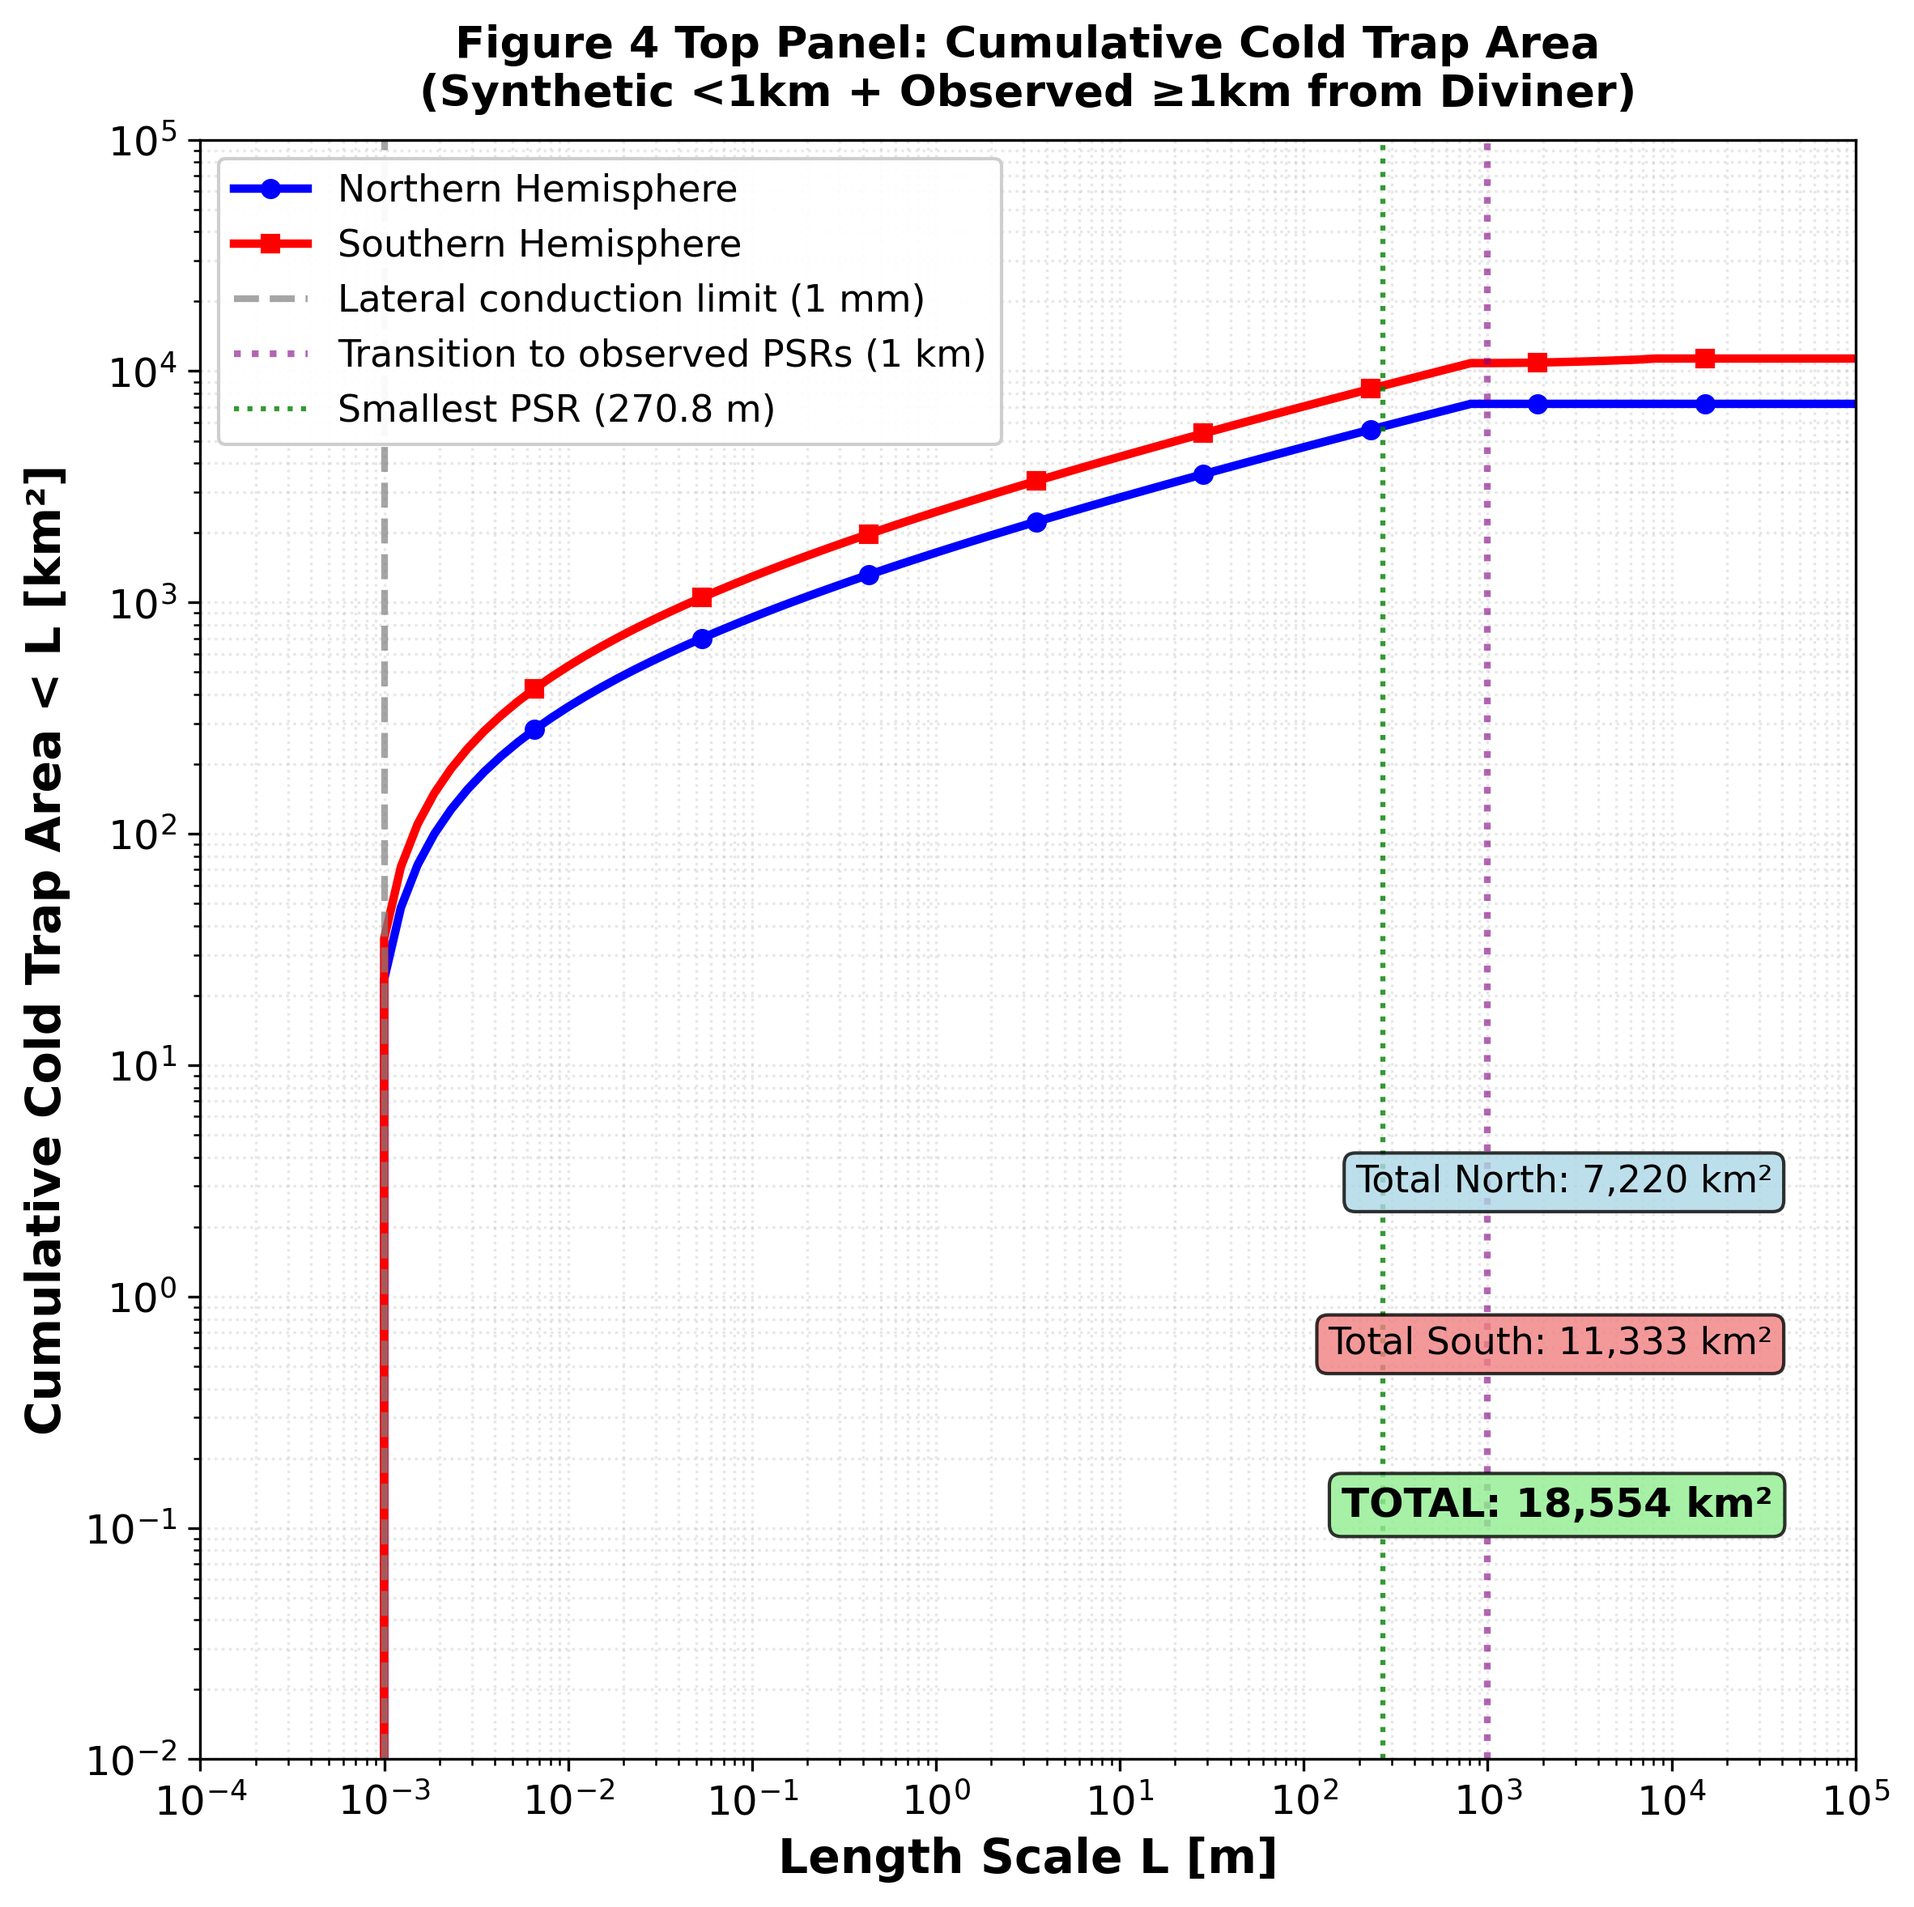
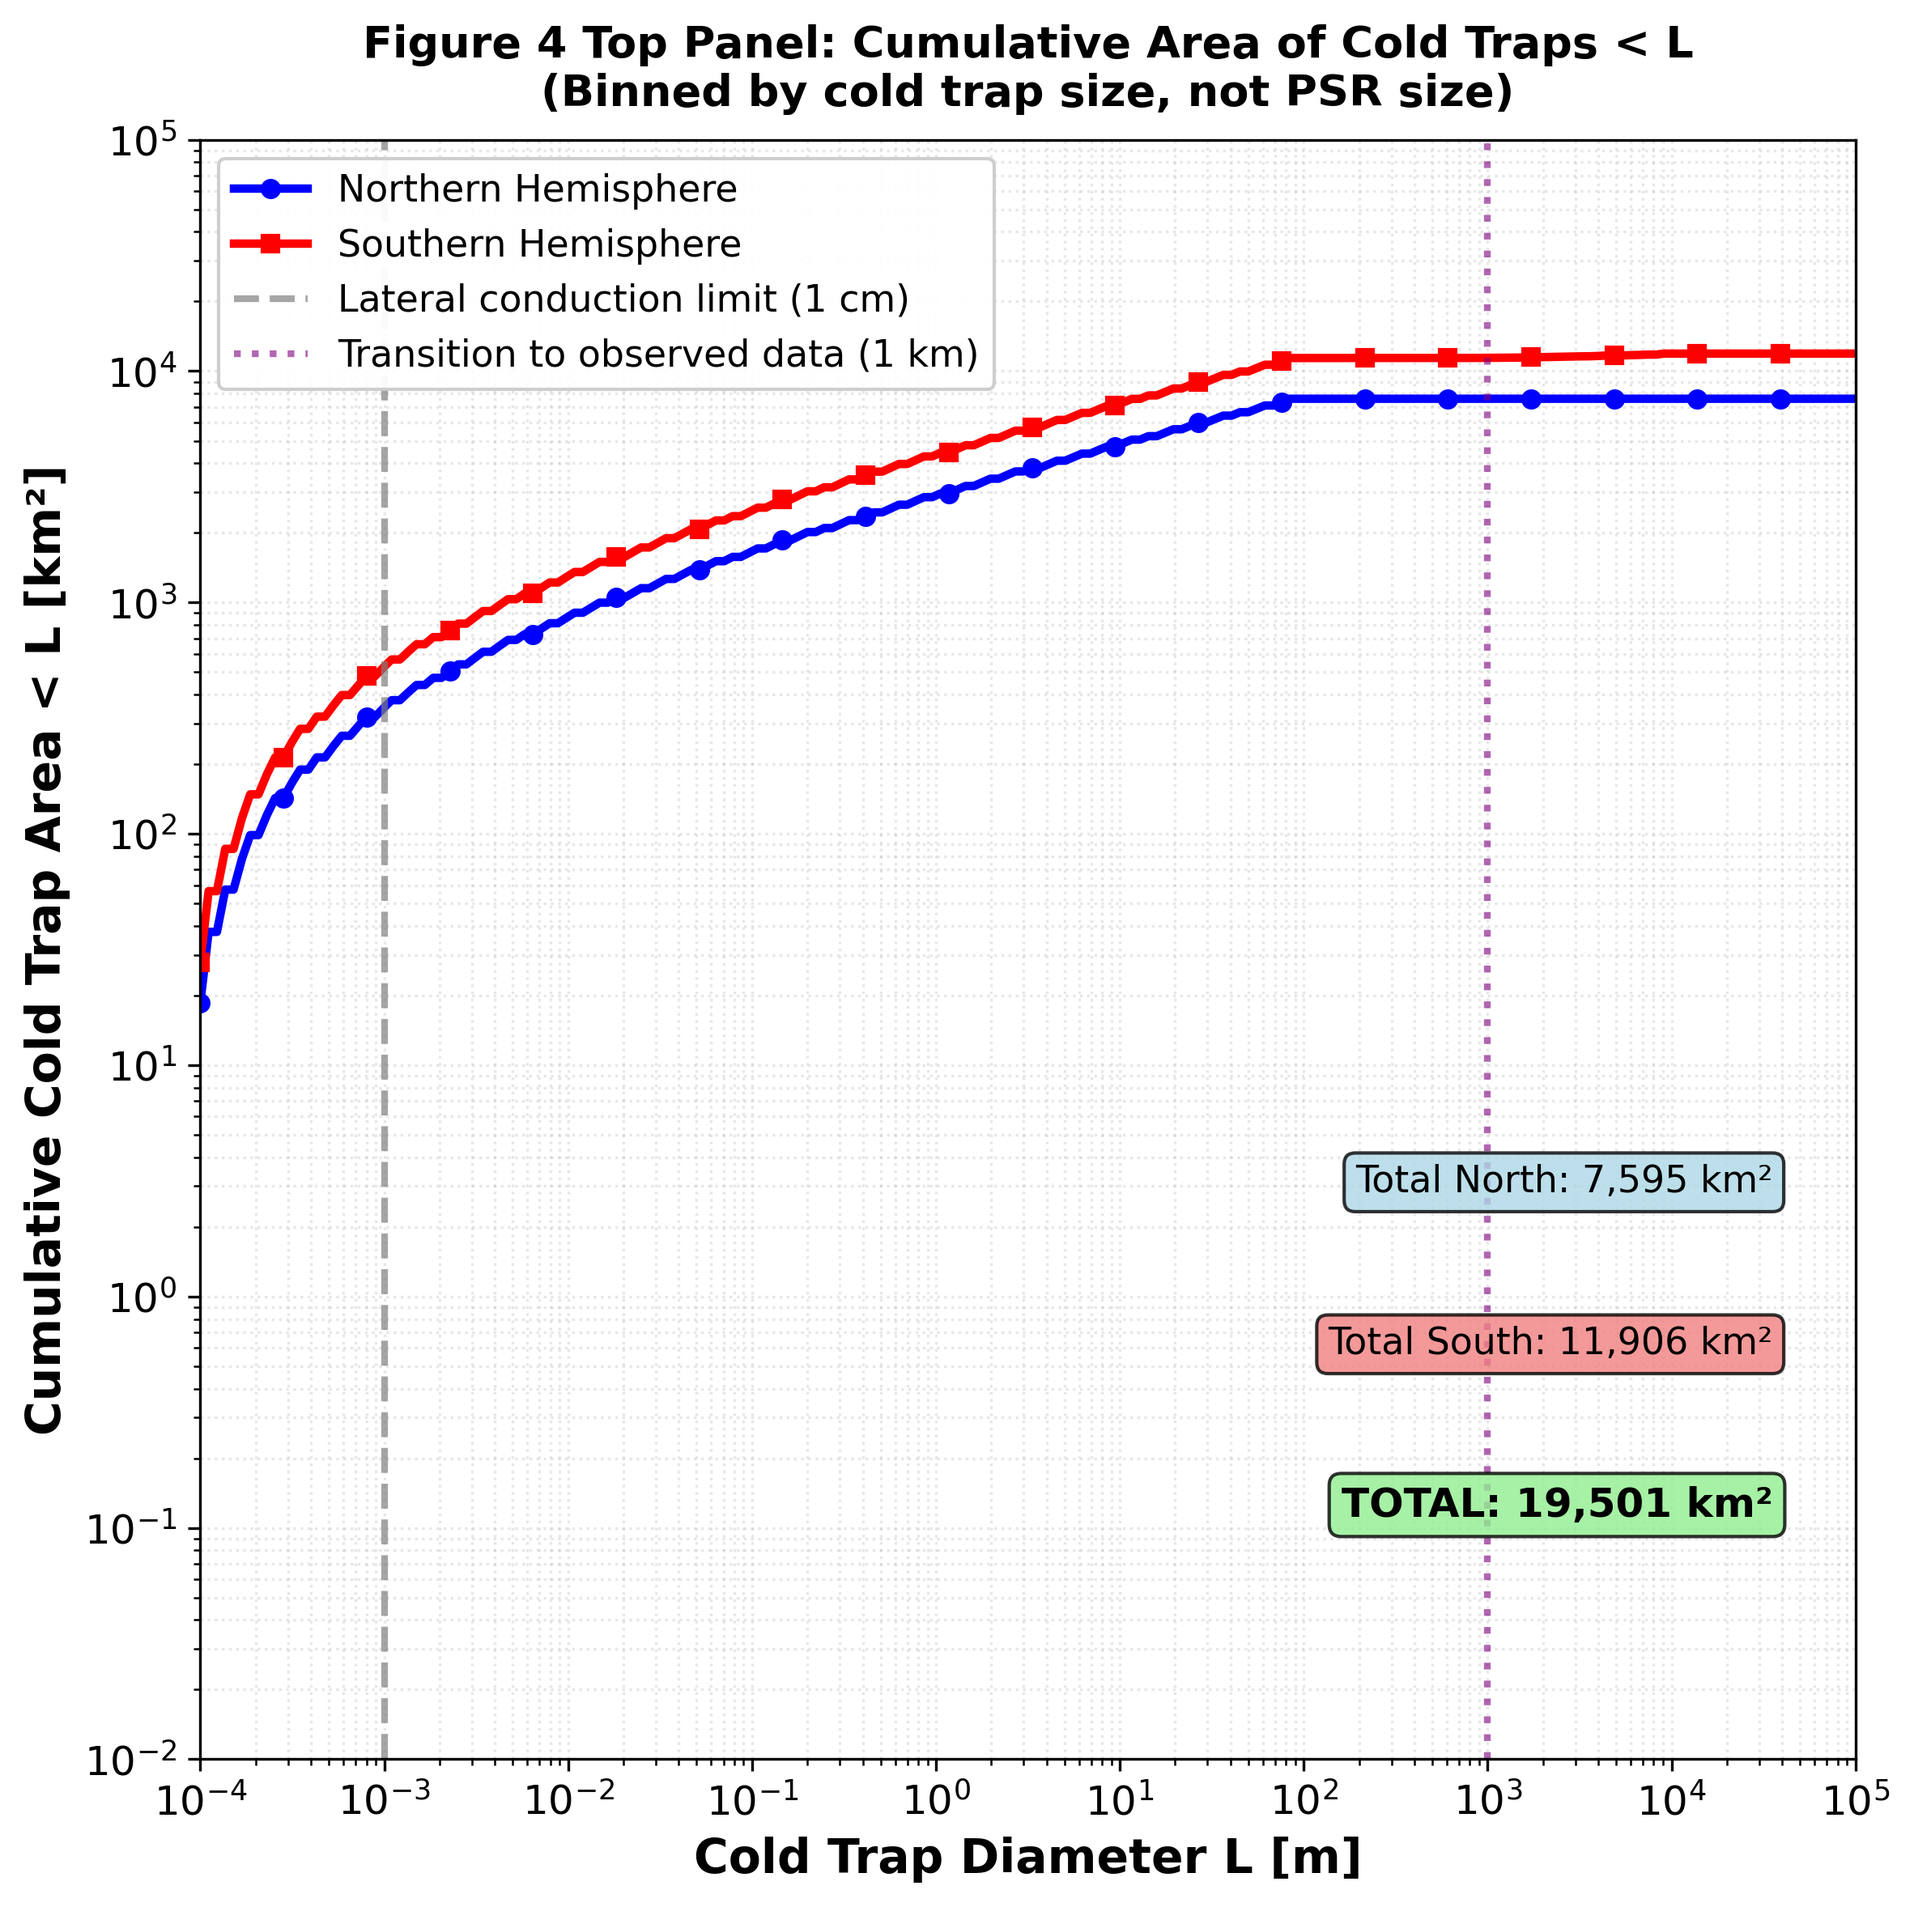
Add bottom panel to Figure 4: number of PSRs and cold traps vs length scale
- Added calculate_psr_counts() to compute PSR size distribution (N ∝ L^-2.8)
- Added calculate_coldtrap_counts() to bin cold traps by diameter
- Created plot_figure4_complete() to generate both top and bottom panels
- Bottom panel shows total number of PSRs and cold traps at each length scale L
- Both curves follow logarithmic spacing as specified in caption
- Updated main() to generate both individual and combined figures

The bottom panel displays:
- PSRs (black line): Total number following power-law N ∝ L^-2.8
- Cold traps (green line): Number constrained by lateral conduction limit (1 mm)
- Shows ~2×10^18 total PSRs and ~2×10^16 total cold traps across all scales

diff --git a/remake_figure4_by_coldtrap_size.py b/remake_figure4_by_coldtrap_size.py
@@ -229,6 +229,87 @@ def calculate_cumulative_by_size(coldtraps, L_values):
     return cum_area_north, cum_area_south
 
 
+def calculate_psr_counts(L_min=1e-4, L_max=100000, n_bins=100):
+    """
+    Calculate number of PSRs at each length scale.
+
+    Returns:
+        L_values: Array of length scales [m]
+        N_psr_north: Number of PSRs in northern hemisphere
+        N_psr_south: Number of PSRs in southern hemisphere
+    """
+    print("\n[Calculating PSR counts]")
+
+    # Create logarithmic bins for PSR diameters
+    L_bins = np.logspace(np.log10(L_min), np.log10(L_max), n_bins)
+    dL = np.diff(np.logspace(np.log10(L_min), np.log10(L_max), n_bins + 1))
+
+    # Power-law exponent
+    b = 1.8
+
+    # Scale factor
+    K = 2e11
+
+    # Differential number density
+    N_diff = K * L_bins**(-b - 1)
+    N_per_bin = N_diff * dL
+
+    # Hemisphere asymmetry
+    N_psr_north = N_per_bin * 0.40
+    N_psr_south = N_per_bin * 0.60
+
+    print(f"  Total PSRs (North): {N_psr_north.sum():.2e}")
+    print(f"  Total PSRs (South): {N_psr_south.sum():.2e}")
+
+    return L_bins, N_psr_north, N_psr_south
+
+
+def calculate_coldtrap_counts(coldtraps, L_values):
+    """
+    Calculate number of cold traps at each length scale.
+
+    Args:
+        coldtraps: List of dicts with 'diameter_m', 'area_km2', 'hemisphere', 'count'
+        L_values: Array of diameter values [m]
+
+    Returns:
+        N_ct_north, N_ct_south: Number of cold traps at each L
+    """
+    print("\n[Calculating cold trap counts by size]")
+
+    # Create bin edges (geometric mean between adjacent bins)
+    L_edges = np.zeros(len(L_values) + 1)
+    L_edges[0] = L_values[0] / (L_values[1]/L_values[0])**0.5
+    L_edges[-1] = L_values[-1] * (L_values[-1]/L_values[-2])**0.5
+    for i in range(1, len(L_values)):
+        L_edges[i] = np.sqrt(L_values[i-1] * L_values[i])
+
+    # Initialize count arrays
+    N_ct_north = np.zeros(len(L_values))
+    N_ct_south = np.zeros(len(L_values))
+
+    # Bin the cold traps by their diameter
+    for ct in coldtraps:
+        diameter = ct['diameter_m']
+        count = ct['count']
+        hemisphere = ct['hemisphere']
+
+        # Find which bin this cold trap belongs to
+        bin_idx = np.searchsorted(L_edges, diameter) - 1
+
+        # Check if within bin range
+        if 0 <= bin_idx < len(L_values):
+            if hemisphere == 'North':
+                N_ct_north[bin_idx] += count
+            else:  # South
+                N_ct_south[bin_idx] += count
+
+    print(f"  Total cold traps (North): {N_ct_north.sum():.2e}")
+    print(f"  Total cold traps (South): {N_ct_south.sum():.2e}")
+
+    return N_ct_north, N_ct_south
+
+
 def plot_cumulative_coldtrap_area(L_values, cum_area_north, cum_area_south,
                                    output_path='/home/user/documents/figure4_top_panel.png'):
     """
@@ -280,11 +361,109 @@ def plot_cumulative_coldtrap_area(L_values, cum_area_north, cum_area_south,
     plt.close()
 
 
+def plot_figure4_complete(L_values, cum_area_north, cum_area_south,
+                          N_psr_north, N_psr_south, N_ct_north, N_ct_south,
+                          output_path='/home/user/documents/figure4_complete.png'):
+    """
+    Create complete Figure 4 with both top and bottom panels.
+
+    Top panel: Cumulative cold trap area vs cold trap diameter
+    Bottom panel: Number of PSRs and cold traps vs length scale
+    """
+    fig, (ax_top, ax_bottom) = plt.subplots(2, 1, figsize=(10, 14))
+
+    # ========================================================================
+    # TOP PANEL: Cumulative Cold Trap Area
+    # ========================================================================
+
+    # Plot cumulative areas
+    ax_top.loglog(L_values, cum_area_north, 'b-', linewidth=2.5,
+                  label='Northern Hemisphere', marker='o', markersize=5, markevery=10)
+    ax_top.loglog(L_values, cum_area_south, 'r-', linewidth=2.5,
+                  label='Southern Hemisphere', marker='s', markersize=5, markevery=10)
+
+    # Add reference lines
+    ax_top.axvline(x=LATERAL_CONDUCTION_LIMIT, color='gray', linestyle='--',
+                   alpha=0.7, linewidth=2, label='Lateral conduction limit (1 mm)')
+    ax_top.axvline(x=TRANSITION_SCALE, color='purple', linestyle=':',
+                   alpha=0.6, linewidth=2, label=f'Transition to observed data ({TRANSITION_SCALE/1000:.0f} km)')
+
+    ax_top.set_xlabel('Cold Trap Diameter L [m]', fontsize=14, fontweight='bold')
+    ax_top.set_ylabel('Cumulative Cold Trap Area < L [km²]', fontsize=14, fontweight='bold')
+    ax_top.set_title('Top Panel: Cumulative Area of Cold Traps < L',
+                     fontsize=13, fontweight='bold', pad=10)
+    ax_top.legend(fontsize=11, loc='upper left', framealpha=0.95)
+    ax_top.grid(True, alpha=0.3, which='both', linestyle=':')
+    ax_top.set_xlim([L_values[0], L_values[-1]])
+    ax_top.set_ylim([1e-2, 1e5])
+    ax_top.tick_params(labelsize=12)
+
+    # Add annotations
+    total_north = cum_area_north[-1]
+    total_south = cum_area_south[-1]
+    total_both = total_north + total_south
+
+    ax_top.text(0.95, 0.35, f'Total North: {total_north:,.0f} km²',
+                transform=ax_top.transAxes, fontsize=11, ha='right',
+                bbox=dict(boxstyle='round', facecolor='lightblue', alpha=0.8))
+    ax_top.text(0.95, 0.25, f'Total South: {total_south:,.0f} km²',
+                transform=ax_top.transAxes, fontsize=11, ha='right',
+                bbox=dict(boxstyle='round', facecolor='lightcoral', alpha=0.8))
+    ax_top.text(0.95, 0.15, f'TOTAL: {total_both:,.0f} km²',
+                transform=ax_top.transAxes, fontsize=12, fontweight='bold', ha='right',
+                bbox=dict(boxstyle='round', facecolor='lightgreen', alpha=0.8))
+
+    # ========================================================================
+    # BOTTOM PANEL: Number of PSRs and Cold Traps
+    # ========================================================================
+
+    # Plot PSR counts
+    ax_bottom.loglog(L_values, N_psr_north + N_psr_south, 'k-', linewidth=2.5,
+                     label='PSRs (Total)', marker='o', markersize=4, markevery=10, alpha=0.7)
+
+    # Plot cold trap counts
+    ax_bottom.loglog(L_values, N_ct_north + N_ct_south, 'g-', linewidth=2.5,
+                     label='Cold Traps (Total)', marker='s', markersize=4, markevery=10, alpha=0.7)
+
+    # Add reference lines
+    ax_bottom.axvline(x=LATERAL_CONDUCTION_LIMIT, color='gray', linestyle='--',
+                      alpha=0.7, linewidth=2, label='Lateral conduction limit (1 mm)')
+    ax_bottom.axvline(x=TRANSITION_SCALE, color='purple', linestyle=':',
+                      alpha=0.6, linewidth=2, label=f'Transition to observed data ({TRANSITION_SCALE/1000:.0f} km)')
+
+    ax_bottom.set_xlabel('Length Scale L [m]', fontsize=14, fontweight='bold')
+    ax_bottom.set_ylabel('Number', fontsize=14, fontweight='bold')
+    ax_bottom.set_title('Bottom Panel: Modelled Number of Individual PSRs and Cold Traps on the Moon',
+                        fontsize=13, fontweight='bold', pad=10)
+    ax_bottom.legend(fontsize=11, loc='upper right', framealpha=0.95)
+    ax_bottom.grid(True, alpha=0.3, which='both', linestyle=':')
+    ax_bottom.set_xlim([L_values[0], L_values[-1]])
+    ax_bottom.tick_params(labelsize=12)
+
+    # Add note about logarithmic spacing
+    ax_bottom.text(0.05, 0.05, 'Length-scale bins are logarithmically spaced',
+                   transform=ax_bottom.transAxes, fontsize=10, style='italic',
+                   bbox=dict(boxstyle='round', facecolor='wheat', alpha=0.5))
+
+    # ========================================================================
+    # Overall Figure
+    # ========================================================================
+
+    plt.suptitle('Figure 4: PSR and Cold Trap Size Distribution',
+                 fontsize=15, fontweight='bold', y=0.998)
+
+    plt.tight_layout(rect=[0, 0, 1, 0.995])
+    plt.savefig(output_path, dpi=300, bbox_inches='tight')
+    print(f"\n✓ Saved complete figure: {output_path}")
+    plt.close()
+
+
 def main():
     """Main execution."""
     print("\n" + "=" * 80)
-    print("FIGURE 4 TOP PANEL: CUMULATIVE COLD TRAP AREA BY COLD TRAP SIZE")
-    print("Plots cumulative area of cold traps with diameter < L")
+    print("FIGURE 4: COMPLETE (TOP AND BOTTOM PANELS)")
+    print("Top: Cumulative cold trap area by cold trap size")
+    print("Bottom: Number of PSRs and cold traps")
     print("=" * 80)
 
     # Load PSR data with Diviner temperatures
@@ -307,11 +486,21 @@ def main():
     # Define L values for cumulative calculation
     L_values = np.logspace(np.log10(1e-4), np.log10(100000), 200)
 
-    # Calculate cumulative areas
+    # Calculate cumulative areas for top panel
     cum_area_north, cum_area_south = calculate_cumulative_by_size(all_coldtraps, L_values)
 
-    # Plot
+    # Calculate PSR counts for bottom panel
+    L_psr, N_psr_north, N_psr_south = calculate_psr_counts(L_min=1e-4, L_max=100000, n_bins=200)
+
+    # Calculate cold trap counts for bottom panel
+    N_ct_north, N_ct_south = calculate_coldtrap_counts(all_coldtraps, L_values)
+
+    # Plot top panel only (original)
     plot_cumulative_coldtrap_area(L_values, cum_area_north, cum_area_south)
+
+    # Plot complete figure with both panels
+    plot_figure4_complete(L_values, cum_area_north, cum_area_south,
+                          N_psr_north, N_psr_south, N_ct_north, N_ct_south)
 
     # Summary
     total_area = cum_area_north[-1] + cum_area_south[-1]
@@ -321,7 +510,9 @@ def main():
     print(f"Total cumulative cold trap area: {total_area:,.2f} km²")
     print(f"Fraction of lunar surface: {total_area/LUNAR_SURFACE_AREA*100:.4f}%")
     print(f"South/North ratio: {cum_area_south[-1]/cum_area_north[-1]:.2f}")
-    print("\n✓ COMPLETE: Figure 4 top panel by cold trap size")
+    print(f"\nTotal PSRs: {(N_psr_north.sum() + N_psr_south.sum()):.2e}")
+    print(f"Total cold traps: {(N_ct_north.sum() + N_ct_south.sum()):.2e}")
+    print("\n✓ COMPLETE: Figure 4 with top and bottom panels")
     print("=" * 80 + "\n")
 
 
